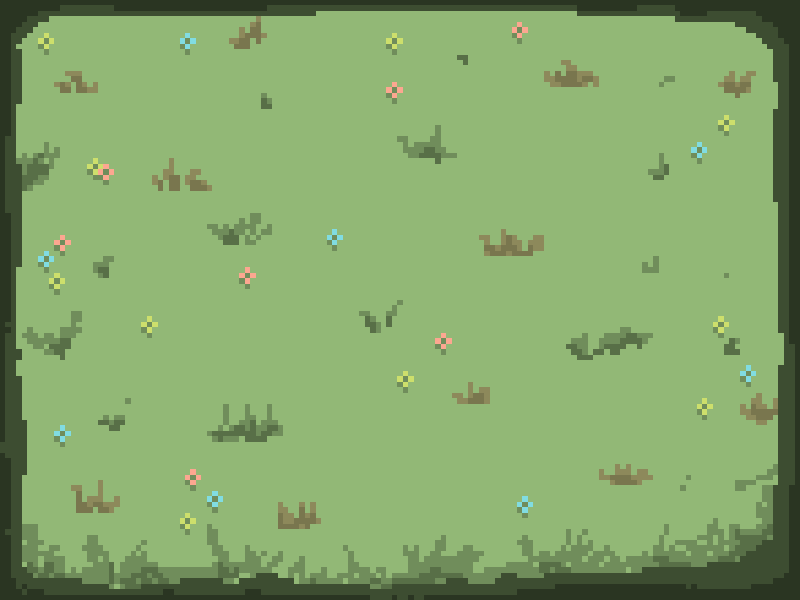
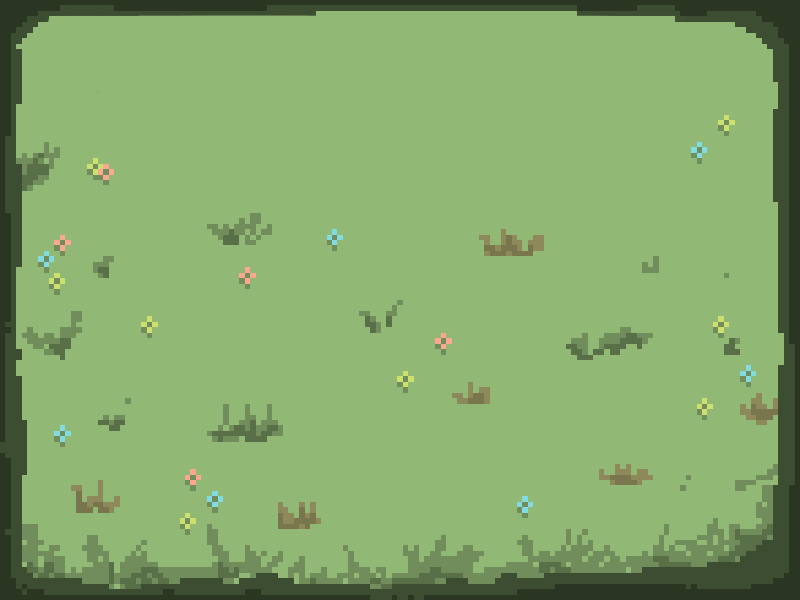
added fonts

diff --git a/L10_project/project.py b/L10_project/project.py
@@ -88,7 +88,7 @@ word_color_horse = (0, 1, 0)
 x_difficulty = 100
 width_difficulty = (engine.width - x_difficulty * 2) / 3 - (20 / 3)
 height_difficulty = 300
-y_difficulty = 100
+y_difficulty = 150
 
 # SCORE
 score = 5
@@ -103,17 +103,33 @@ timer_animal = 0
 
 sunset_color = 1, 0.65, 0
 
-# -----------------
+
 # IMAGES
 # -----------------
+# Fonts
+mono_font = "resources/fonts/PixeloidMono.ttf"
+normal_font = "resources/fonts/PixeloidSans.ttf"
+bold_font = "resources/fonts/PixeloidSans-Bold.ttf"
+title_font = "resources/fonts/AnalogWhispers.ttf"
+
+engine.set_font(normal_font)
+
 # BACKGROUNDS
 start_background = engine.load_image("resources/img/start_background.png")
 normal_background = engine.load_image("resources/img/normal_background.png")
 
+
 # DIFFICULTY
+title_background_difficulty = engine.load_image("resources/img/title_background_difficulty.png")
+
 difficulty_easy = engine.load_image("resources/img/difficulty_easy.png")
 difficulty_medium = engine.load_image("resources/img/difficulty_medium.png")
 difficulty_hard = engine.load_image("resources/img/difficulty_hard.png")
+
+# COLORS
+# -----------------
+primary_text_clr = (0.24, 0.15, 0.19)
+highlight_clr = (0.8, 0.87, 0.42)
 
 # -----------------
 # Helper functions
@@ -131,10 +147,16 @@ def start_screen():
     engine.color = 0, 0, 0
 
     engine.set_font_size(50)
-    engine.draw_text('Moo-ve your fingers', engine.width/2, engine.height/4, True)
+    # engine.draw_text('Moo-ve your fingers', engine.width/2, engine.height/4, True)
 
-    engine.set_font_size(30)
-    engine.draw_text('_Press any key to play_', engine.width/2, engine.height*(3/4), True)
+    engine.set_font_size(25)
+    engine.set_font(bold_font)
+    # Shadow
+    engine.color = primary_text_clr
+    engine.draw_text('Press any key to play_', engine.width - 228, engine.height - 67, True)
+    engine.color = highlight_clr
+    engine.draw_text('Press any key to play_', engine.width - 225, engine.height - 70, True)
+
 
 # -----------------
 # Draw functions
@@ -208,6 +230,7 @@ def render():
     """
     global current_difficulty, current_state
 
+
     if current_state == GameState.START:
         engine.background_color = 1, 0, 1
         start_background.draw_fixed_size(0, 0, engine.width, engine.height, False)
@@ -217,8 +240,22 @@ def render():
         engine.background_color = 1, 1, 0
         engine.shape_mode = ShapeMode.CORNER
         normal_background.draw_fixed_size(0, 0, engine.width, engine.height, False)
-        engine.draw_text("CHOOSE DIFFICULTY", engine.width / 2, 50, True)
+
+        engine.set_font(title_font)
+        engine.set_font_size(60)
+
+        engine.shape_mode = ShapeMode.CENTER
+        # engine.draw_rectangle(engine.width / 2, 75, 550, 76, False)
+        title_background_difficulty.draw_fixed_size(engine.width / 2, 75, 550 * 1.2, 76 * 1.2, False)
         engine.shape_mode = ShapeMode.CORNER
+        engine.color = highlight_clr
+        engine.draw_text("CHOOSE DIFFICULTY", engine.width / 2 - 3, 77 + 3, True)
+        engine.color = primary_text_clr
+        engine.draw_text("CHOOSE DIFFICULTY", engine.width / 2, 77, True)
+
+
+
+
         #EASY
         # engine.draw_rectangle(x_difficulty, y_difficulty, width_difficulty, height_difficulty, False)
         difficulty_easy.draw_fixed_size(x_difficulty -10, y_difficulty, width_difficulty, height_difficulty, False)
